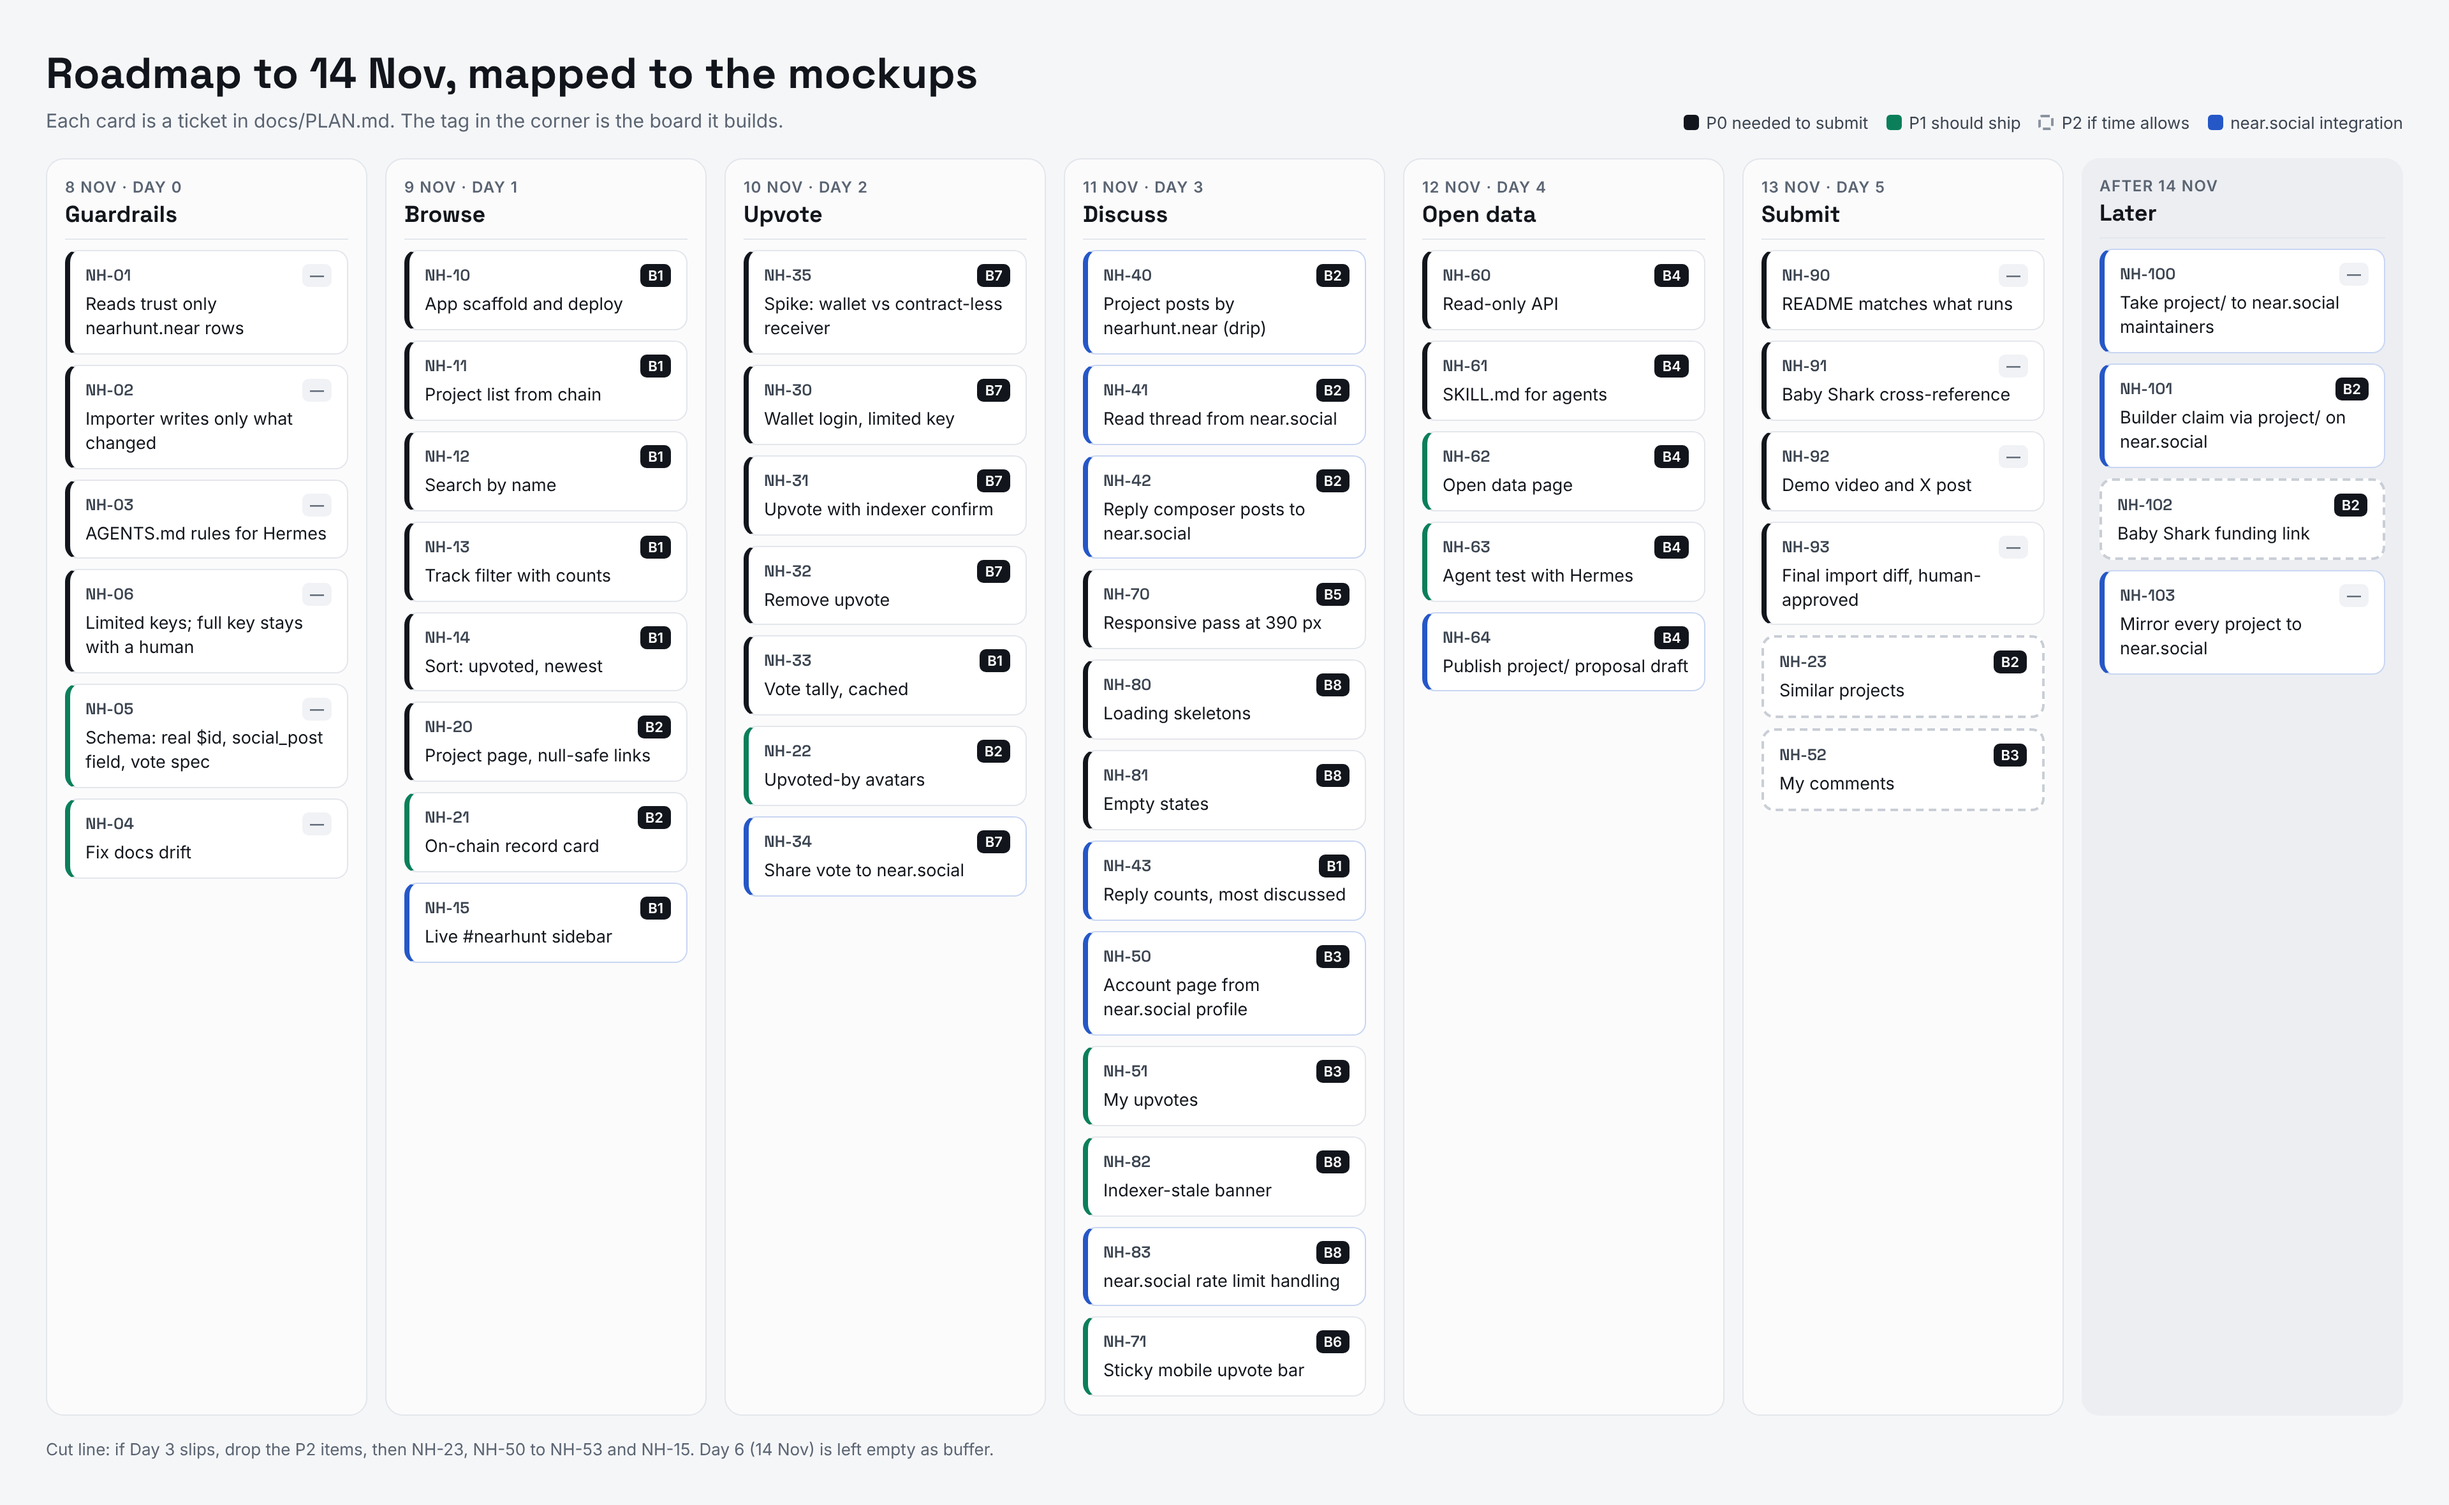
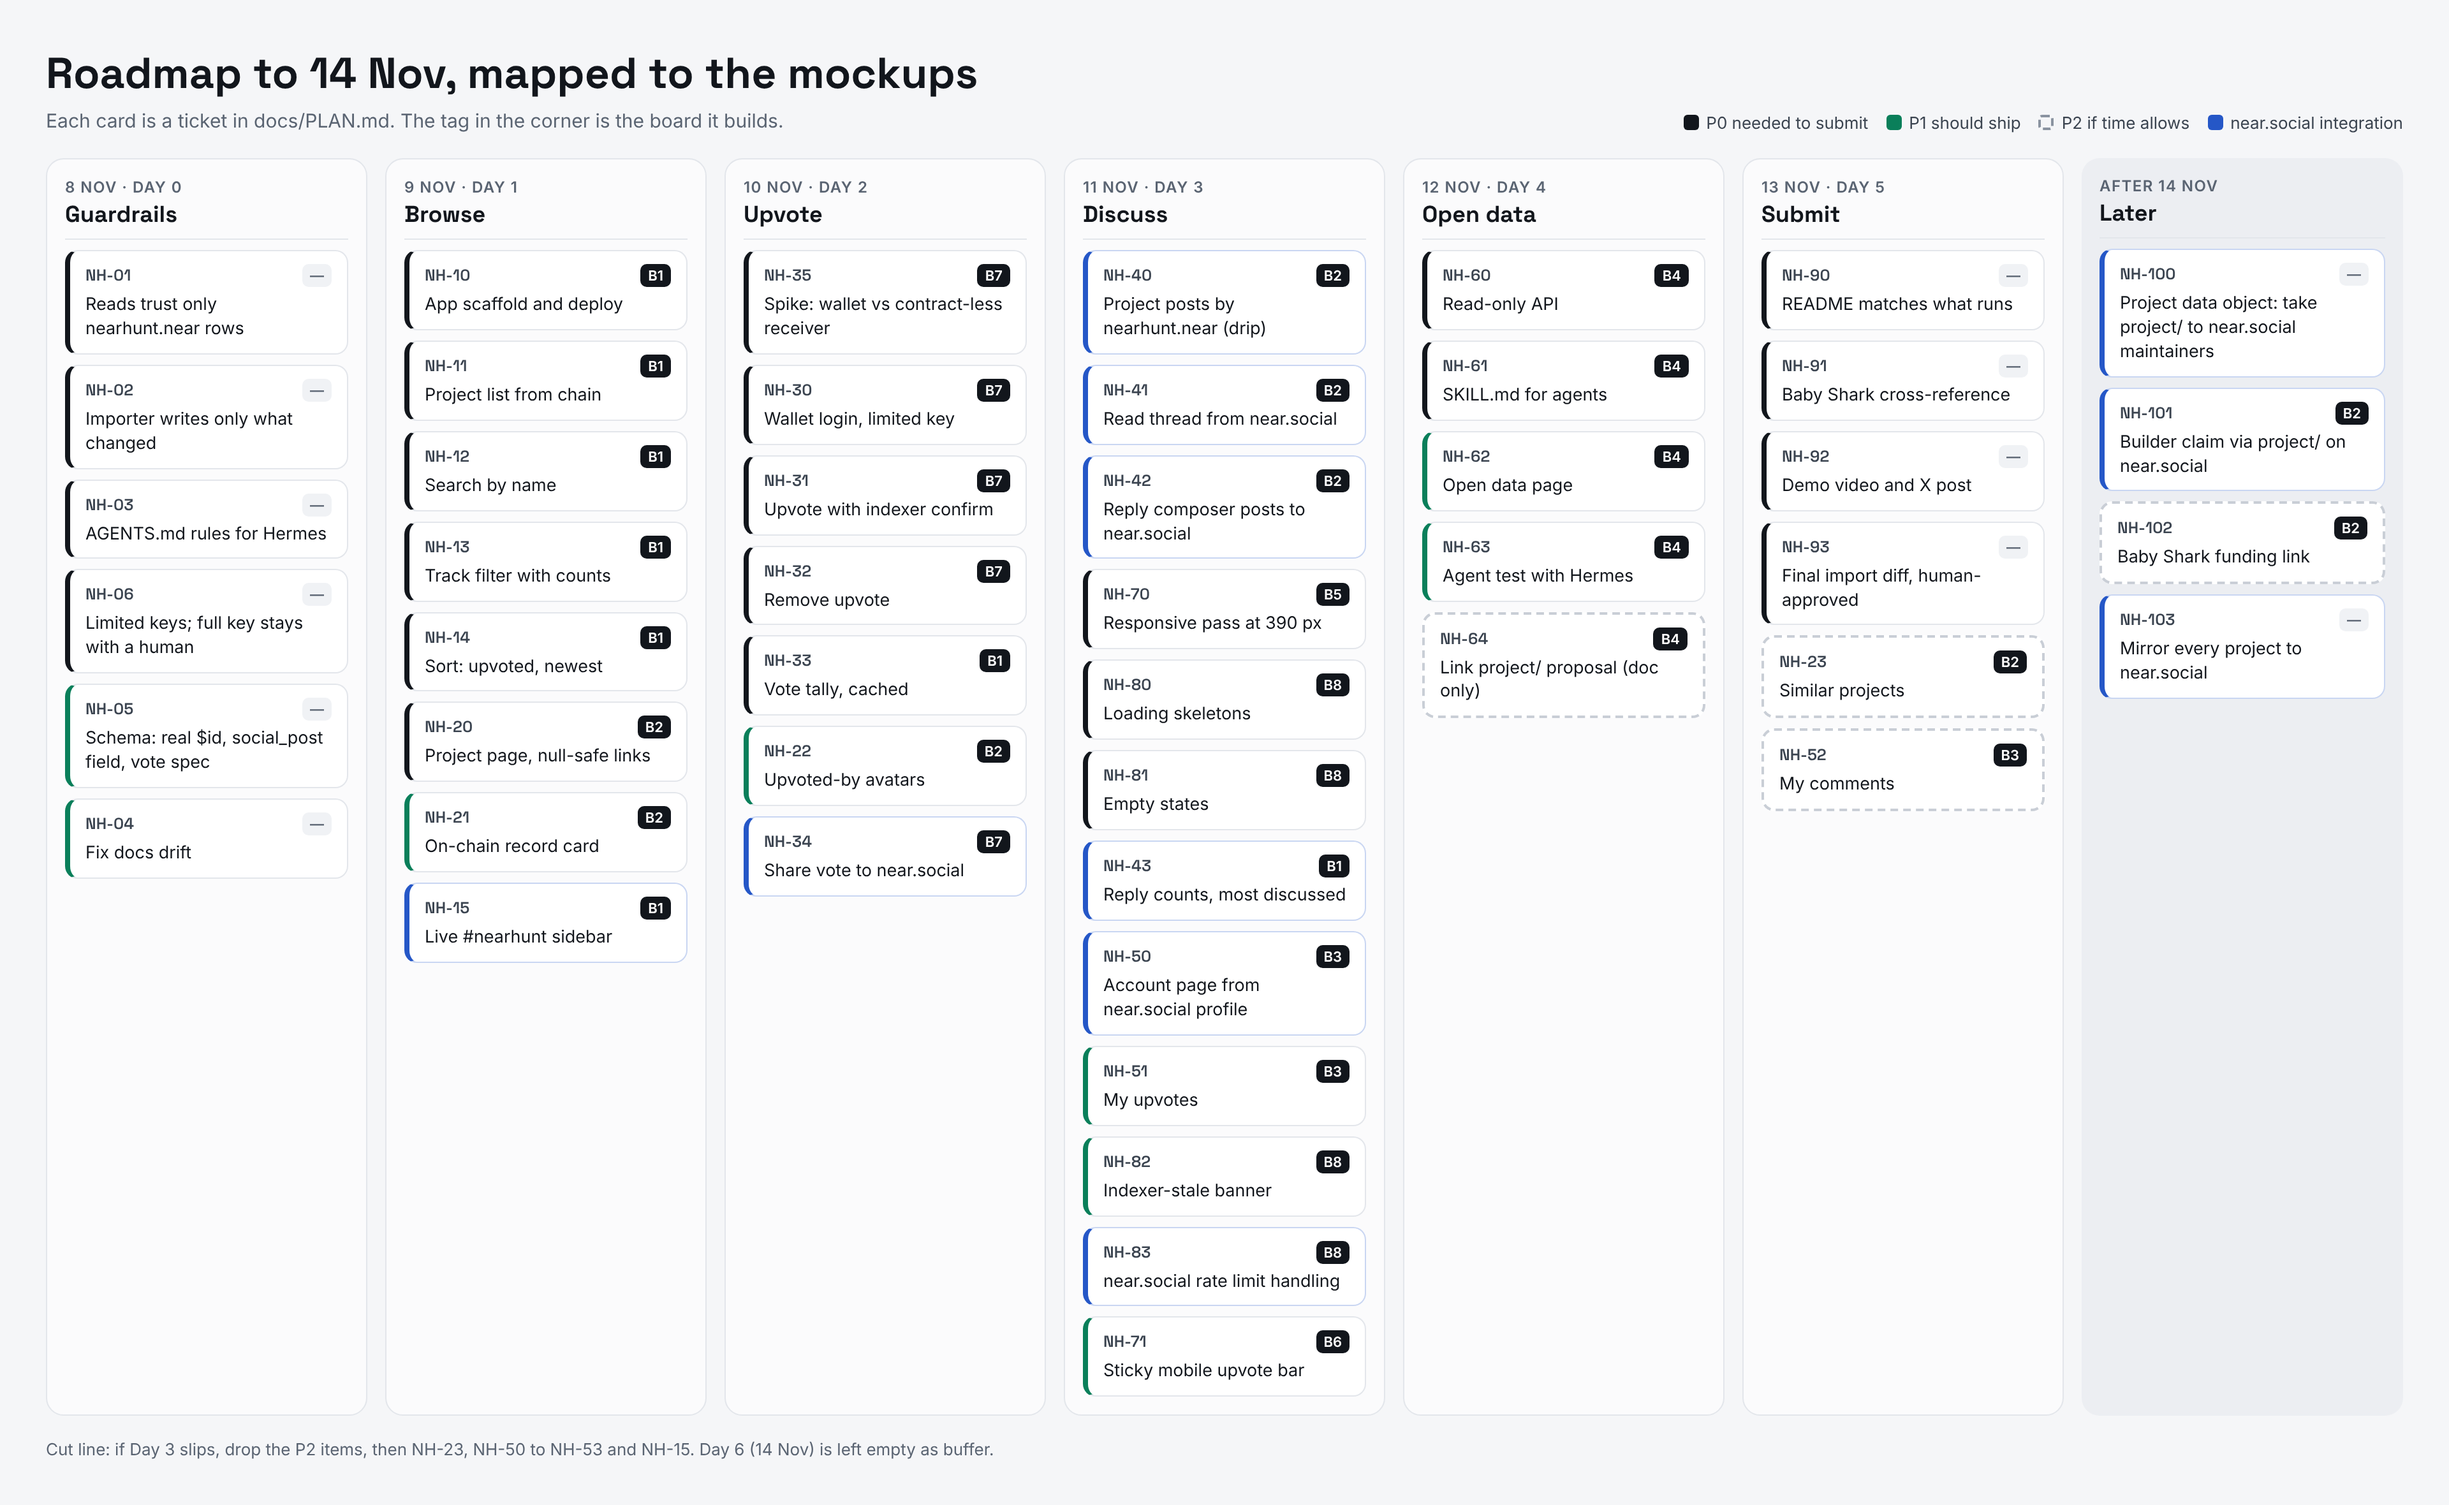
docs: roadmap board reflects project/ object out of hackathon scope
Claude-Session: https://claude.ai/code/session_013XBUdYMrUhQqQFExprQN3J

Changed region(s): [[0.8438, 0.1856, 0.9688, 0.464], [0.5625, 0.4021, 0.6875, 0.464]]

diff --git a/docs/mockups/html/Roadmap.html b/docs/mockups/html/Roadmap.html
@@ -363,12 +363,12 @@ a{color:#0A7F5A}a:hover{color:#075E43}
             <p style="margin: 0; font-size: 13.5px; line-height: 1.4;">Agent test with Hermes</p>
           </article>
         
-          <article style="background: #FFFFFF; border-radius: 10px; padding: 10px 12px; display: flex; flex-direction: column; gap: 4px; border: 1px solid #C9D6F2; border-left: 4px solid #2557C7;">
+          <article style="background: #FFFFFF; border-radius: 10px; padding: 10px 12px; display: flex; flex-direction: column; gap: 4px; border: 2px dashed #C9CED6;">
             <div style="display: flex; justify-content: space-between; align-items: center; gap: 6px;">
               <span style="font-family: 'Space Grotesk', sans-serif; font-weight: 600; font-size: 12.5px; color: #3B4450;">NH-64</span>
               <span style="font-size: 11px; font-weight: 600; border-radius: 5px; padding: 2px 6px; white-space: nowrap; background: #12161C; color: #FFFFFF;">B4</span>
             </div>
-            <p style="margin: 0; font-size: 13.5px; line-height: 1.4;">Publish project/ proposal draft</p>
+            <p style="margin: 0; font-size: 13.5px; line-height: 1.4;">Link project/ proposal (doc only)</p>
           </article>
         
       </section>
@@ -440,7 +440,7 @@ a{color:#0A7F5A}a:hover{color:#075E43}
               <span style="font-family: 'Space Grotesk', sans-serif; font-weight: 600; font-size: 12.5px; color: #3B4450;">NH-100</span>
               <span style="font-size: 11px; font-weight: 600; border-radius: 5px; padding: 2px 6px; white-space: nowrap; background: #F0F2F5; color: #5A6472;">—</span>
             </div>
-            <p style="margin: 0; font-size: 13.5px; line-height: 1.4;">Take project/ to near.social maintainers</p>
+            <p style="margin: 0; font-size: 13.5px; line-height: 1.4;">Project data object: take project/ to near.social maintainers</p>
           </article>
         
           <article style="background: #FFFFFF; border-radius: 10px; padding: 10px 12px; display: flex; flex-direction: column; gap: 4px; border: 1px solid #C9D6F2; border-left: 4px solid #2557C7;">

diff --git a/docs/mockups/src/Roadmap.dc.html b/docs/mockups/src/Roadmap.dc.html
@@ -109,7 +109,7 @@ class Component extends DCLogic {
         ['NH-61', 'P0', 'B4', 'SKILL.md for agents'],
         ['NH-62', 'P1', 'B4', 'Open data page'],
         ['NH-63', 'P1', 'B4', 'Agent test with Hermes'],
-        ['NH-64', 'P1', 'B4', 'Publish project/ proposal draft', true]
+        ['NH-64', 'P2', 'B4', 'Link project/ proposal (doc only)']
       ]],
       ['13 Nov · Day 5', 'Submit', [
         ['NH-90', 'P0', '—', 'README matches what runs'],
@@ -120,7 +120,7 @@ class Component extends DCLogic {
         ['NH-52', 'P2', 'B3', 'My comments']
       ]],
       ['After 14 Nov', 'Later', [
-        ['NH-100', 'P2', '—', 'Take project/ to near.social maintainers', true],
+        ['NH-100', 'P2', '—', 'Project data object: take project/ to near.social maintainers', true],
         ['NH-101', 'P2', 'B2', 'Builder claim via project/ on near.social', true],
         ['NH-102', 'P2', 'B2', 'Baby Shark funding link'],
         ['NH-103', 'P2', '—', 'Mirror every project to near.social', true]
